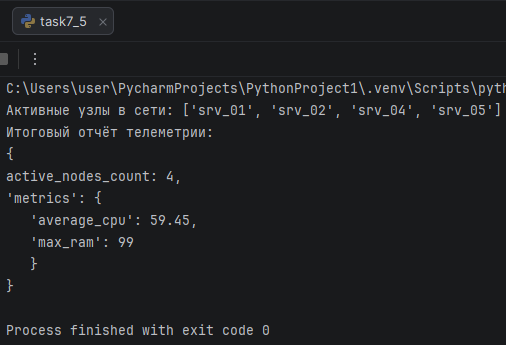
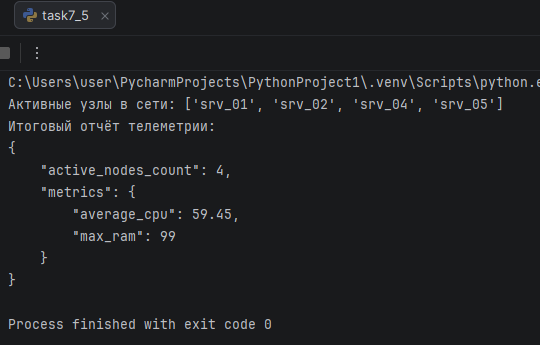
Updating homework 7

diff --git a/PythonScripts_homework_7/task7_5.py b/PythonScripts_homework_7/task7_5.py
@@ -1,3 +1,5 @@
+import json #importing json to print the dictionary
+
 system_telemetry = [
     ("srv_01", 12.5, 64, "online"),
     ("srv_02", 85.0, 92, "online"),
@@ -17,14 +19,17 @@ for nodes in system_telemetry:
         cpu_list.append(cpu)
         ram_list.append(ram)
 
-#printing the result (not sure how to do it differently, I feel like I hardcoded it but ok)
+metrics_dict = {
+    "active_nodes_count" : len(active_nodes),
+    "metrics": {
+        "average_cpu": round(sum(cpu_list)/len(cpu_list),2),
+        "max_ram": max(ram_list)
+    }
+}
+
+#printing the result
 print(f"Активные узлы в сети: {active_nodes}")
 print("Итоговый отчёт телеметрии:")
-print("{\n"
-    "active_nodes_count: " + str(len(active_nodes)) + ",\n"
-    "'metrics': {\n"
-    "   'average_cpu': " + str(round(sum(cpu_list)/len(cpu_list),2)) + ",\n"
-    "   'max_ram': " + str(max(ram_list)) + "\n"
-    "   }\n"
-    "}")
+#found this method to print the dictionary so it's readable
+print(json.dumps(metrics_dict, indent=4))
 

diff --git a/PythonScripts_homework_7/task7_1.py b/PythonScripts_homework_7/task7_1.py
@@ -10,13 +10,10 @@ strip_user_record = []
 for i in range(0, len(split_user_record)):
     strip_user_record.append(split_user_record[i].strip())
 
-#dividing a list into different strings
-
 #normalizing every string
 strip_user_record[0] = f"UID-{strip_user_record[0]}"
 
-strip_user_record[1] = strip_user_record[1].split('_')
-strip_user_record[1] = (strip_user_record[1][0] + ' ' + strip_user_record[1][1]).title()
+strip_user_record[1] = strip_user_record[1].replace('_', ' ').title()
 
 strip_user_record[2] = strip_user_record[2].upper()
 
